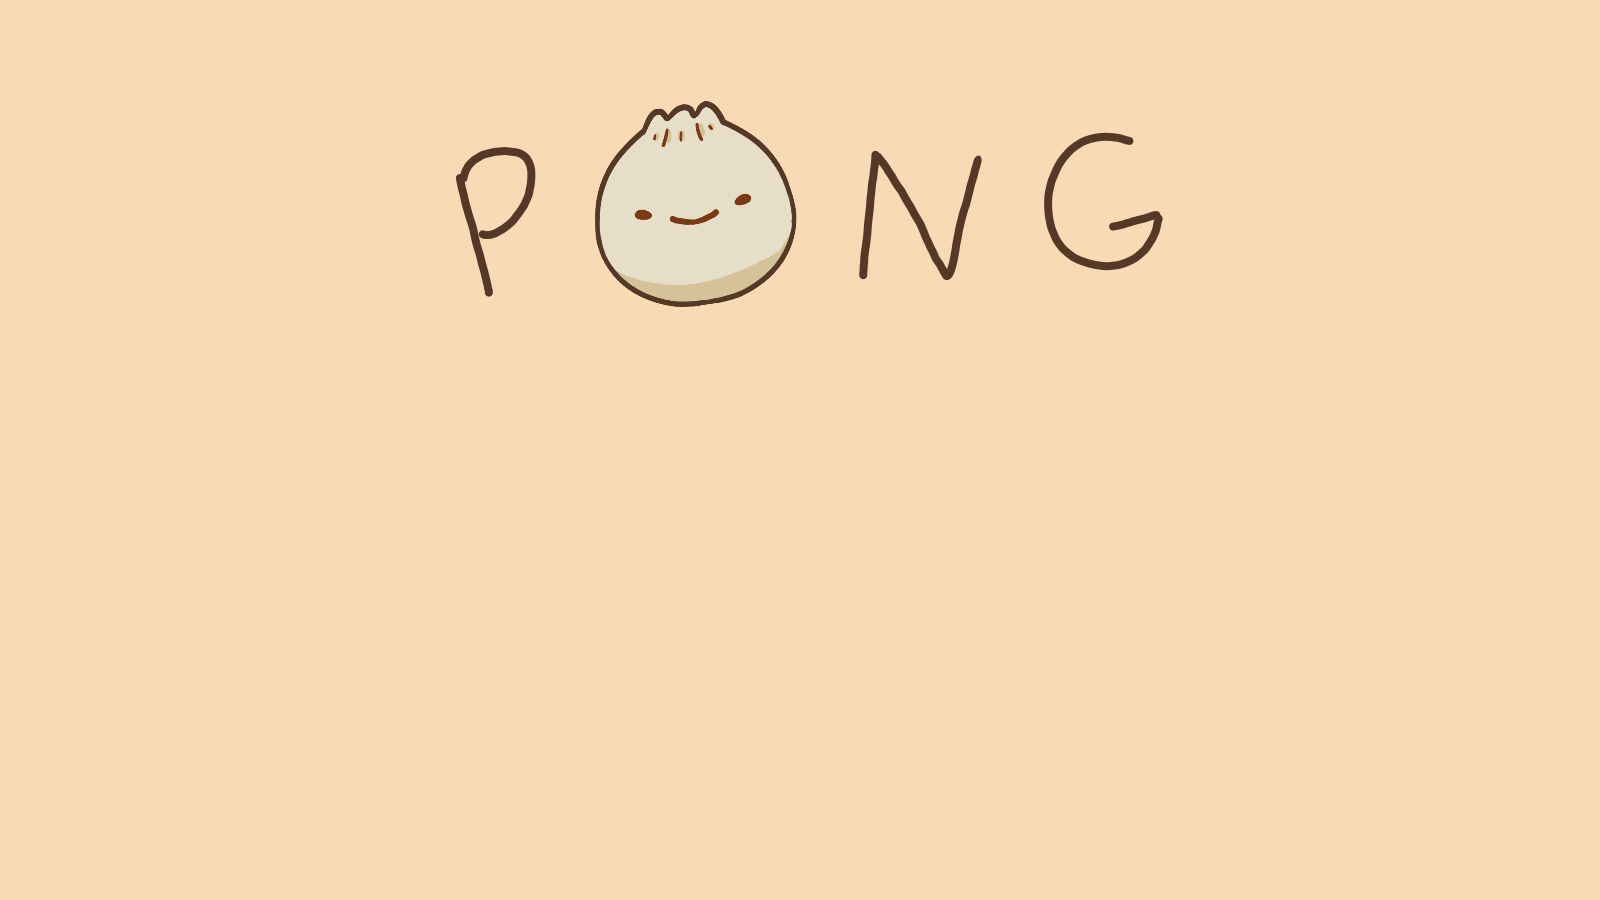
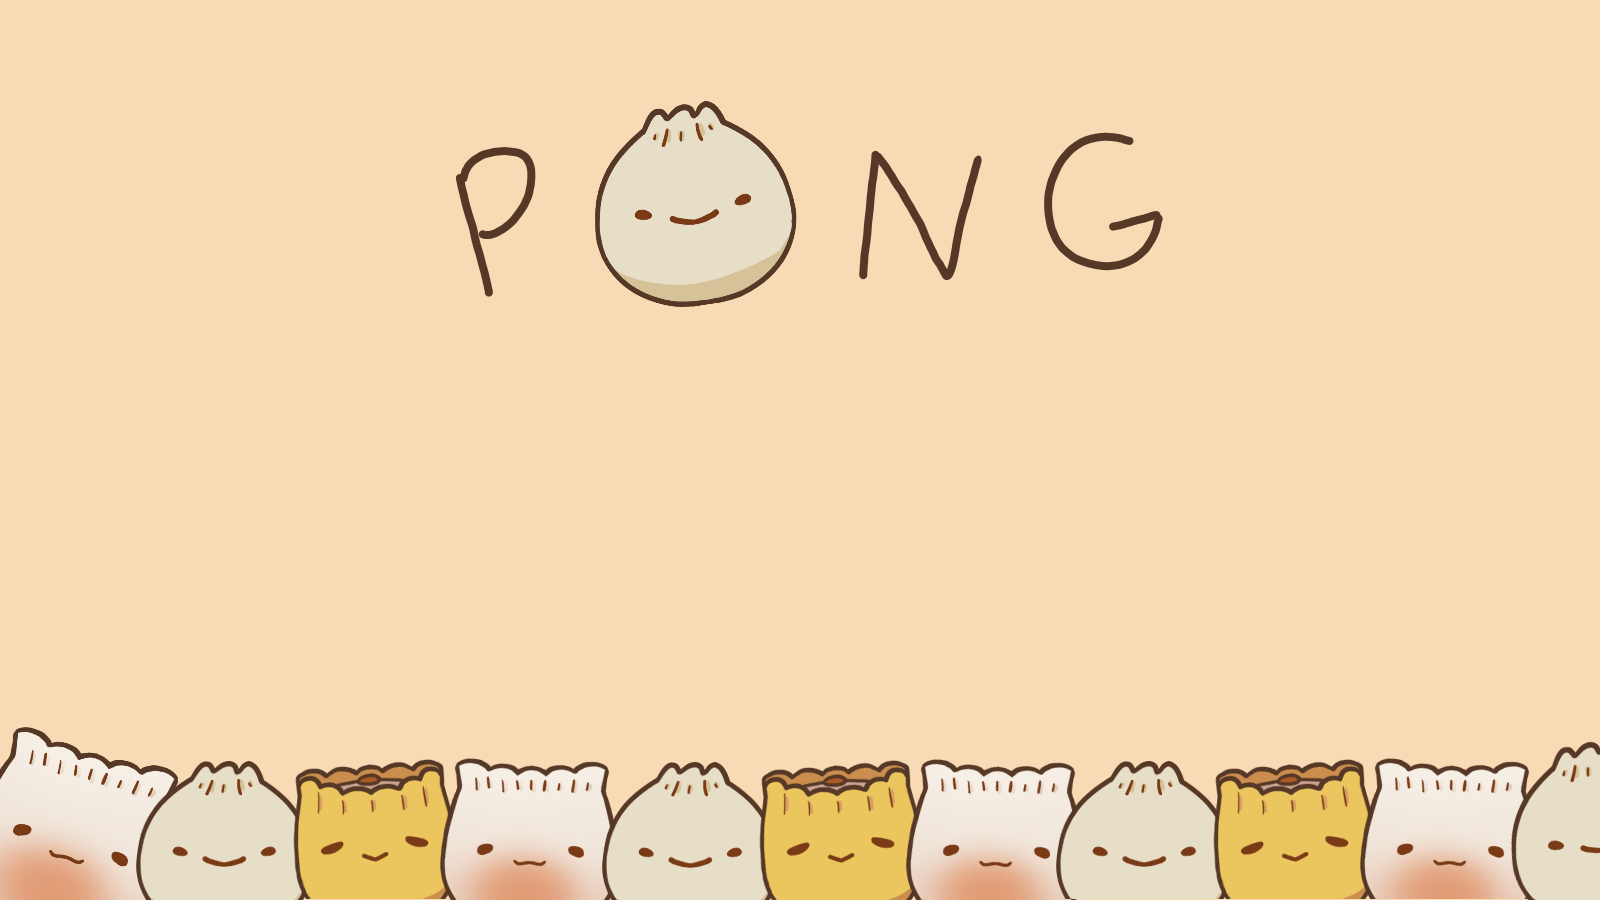
changed startScreen image and updated time so game starts correctly

Changed region(s): [[0.0, 0.8089, 1.0, 1.0]]

diff --git a/main.cpp b/main.cpp
@@ -300,13 +300,14 @@ void update(){
                 gPlayCoords[1] = 150;
                 if (IsMouseButtonDown(MOUSE_BUTTON_LEFT)){
                     gScreen = 1;
+                    gPreviousTicks = static_cast<float>(GetTime());
                 }
         }
         else{
             gPlayCoords[1] = 0;
         }
     }
-    if (gScreen == 1){
+    else if (gScreen == 1){
         // delta time
         float ticks = static_cast<float>(GetTime());
         float deltaTime = ticks - gPreviousTicks;
